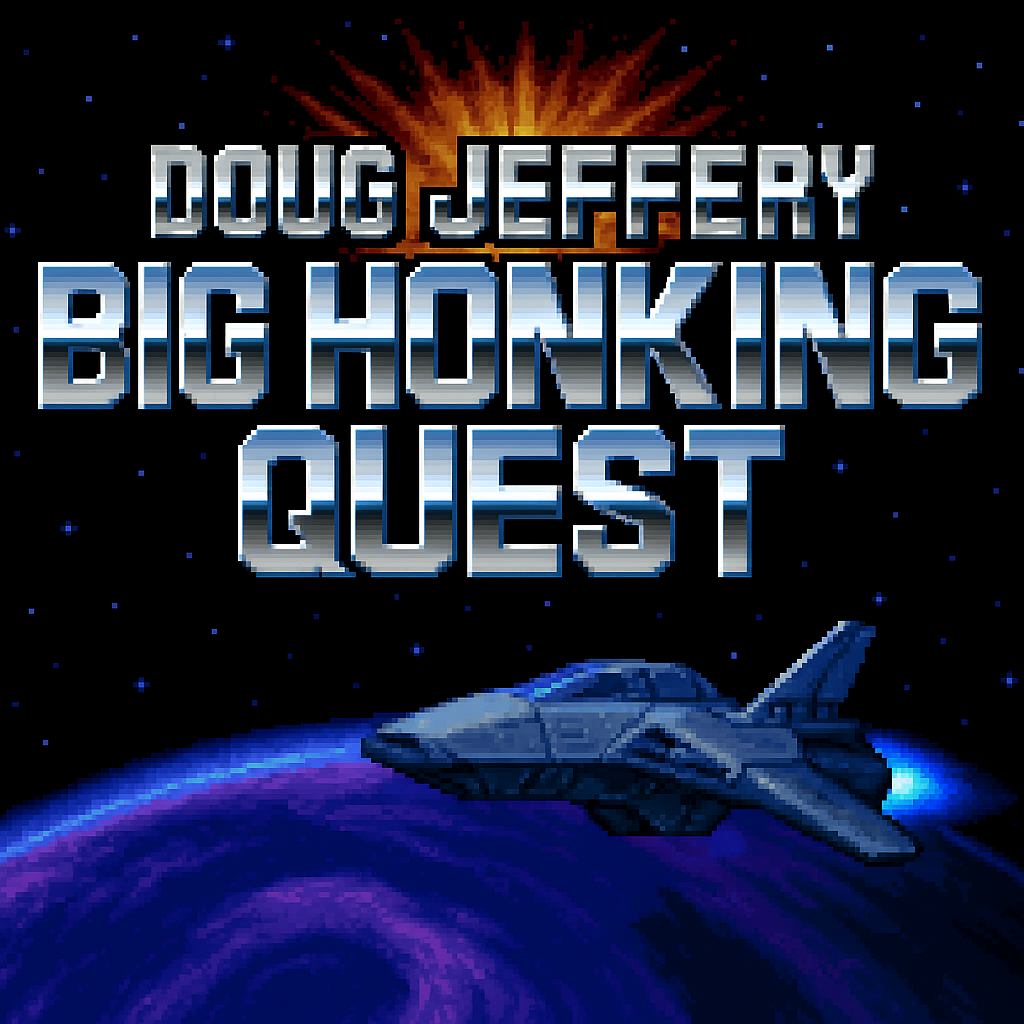
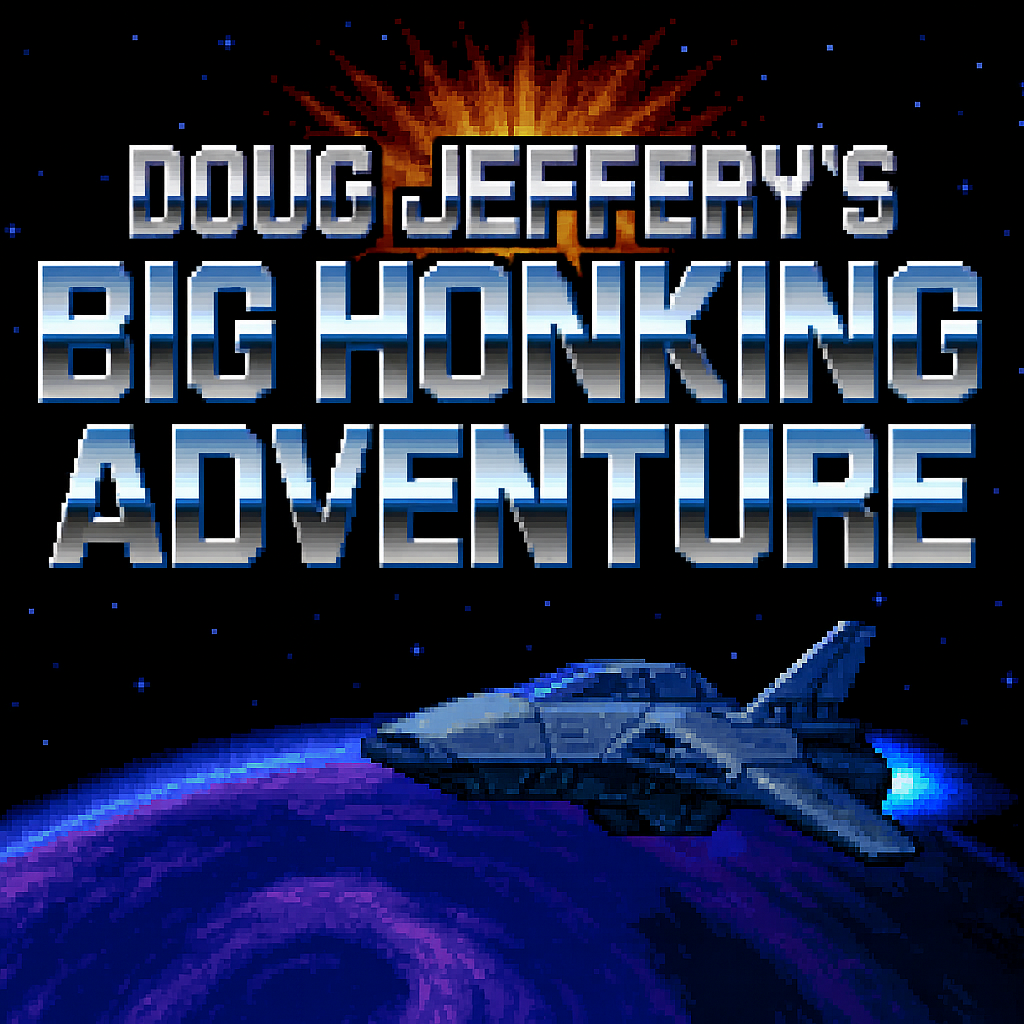
Added instructions and missing 's

diff --git a/js/slideshow.js b/js/slideshow.js
@@ -63,7 +63,10 @@ class Slideshow {
         this.slidesIntro = [
             {
                 image: 'images/title.png',
-                text: 'PRESS SPACE TO START'
+                text: [
+                    'WASD TO MOVE, SPACE TO FIRE',
+                    'PRESS SPACE TO START'
+                ].join('\n')
             },
             {
                 image: 'images/fighter-bob.png',
